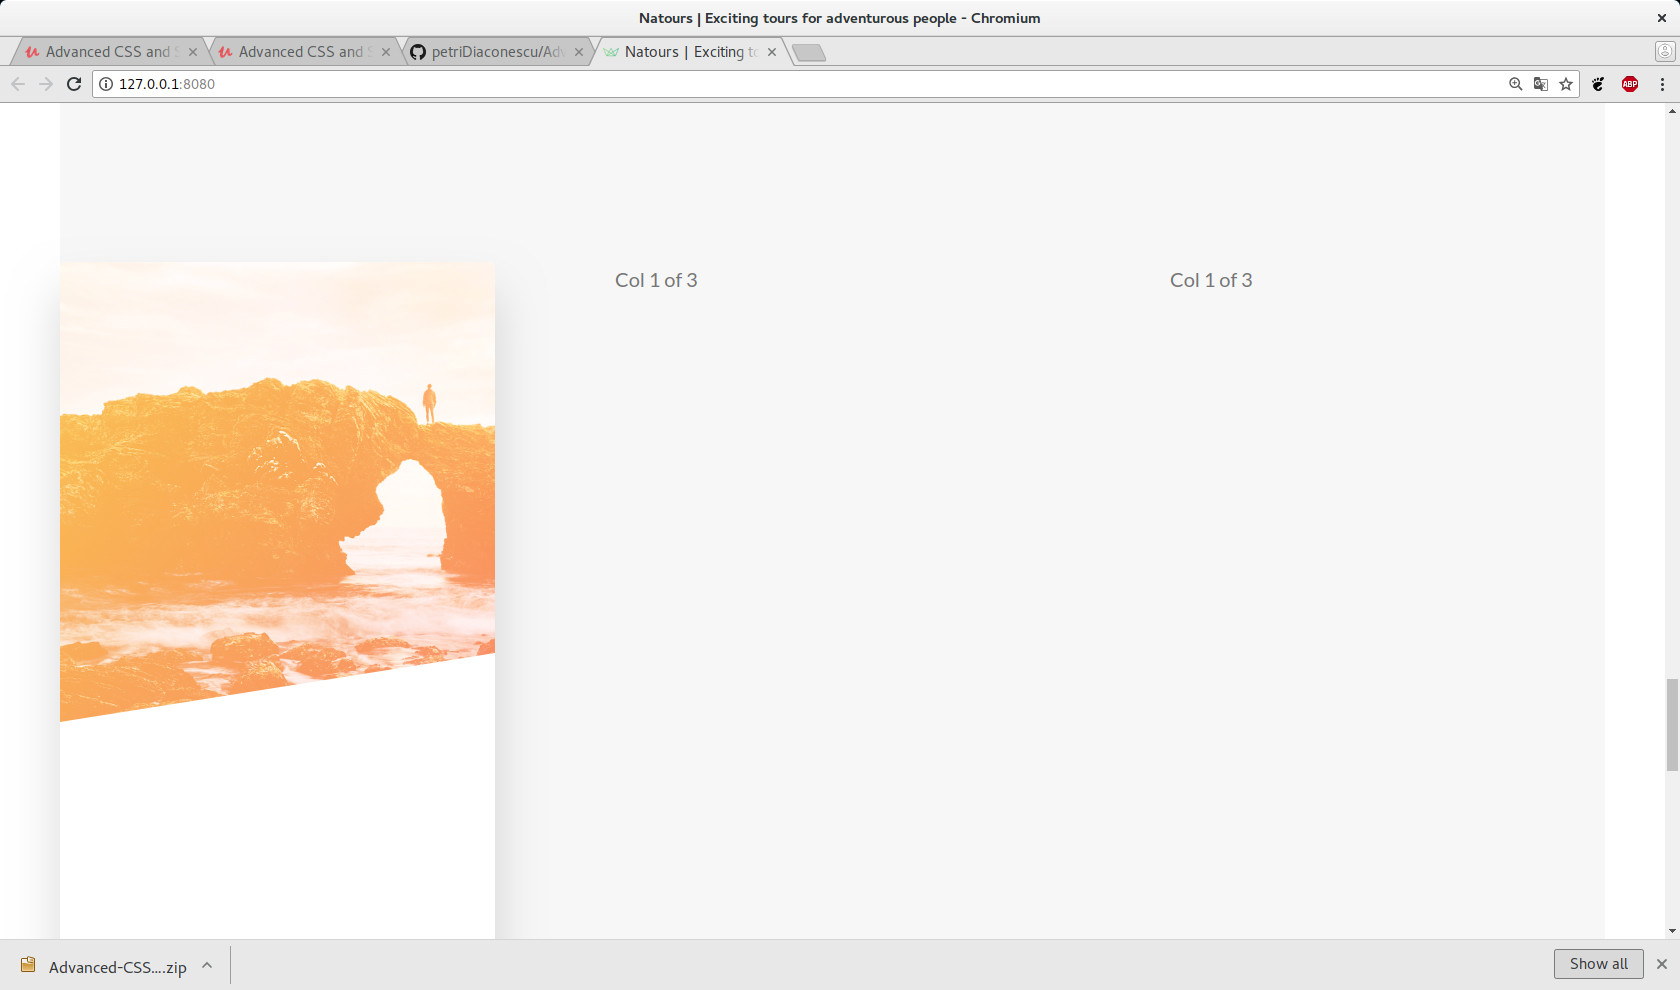
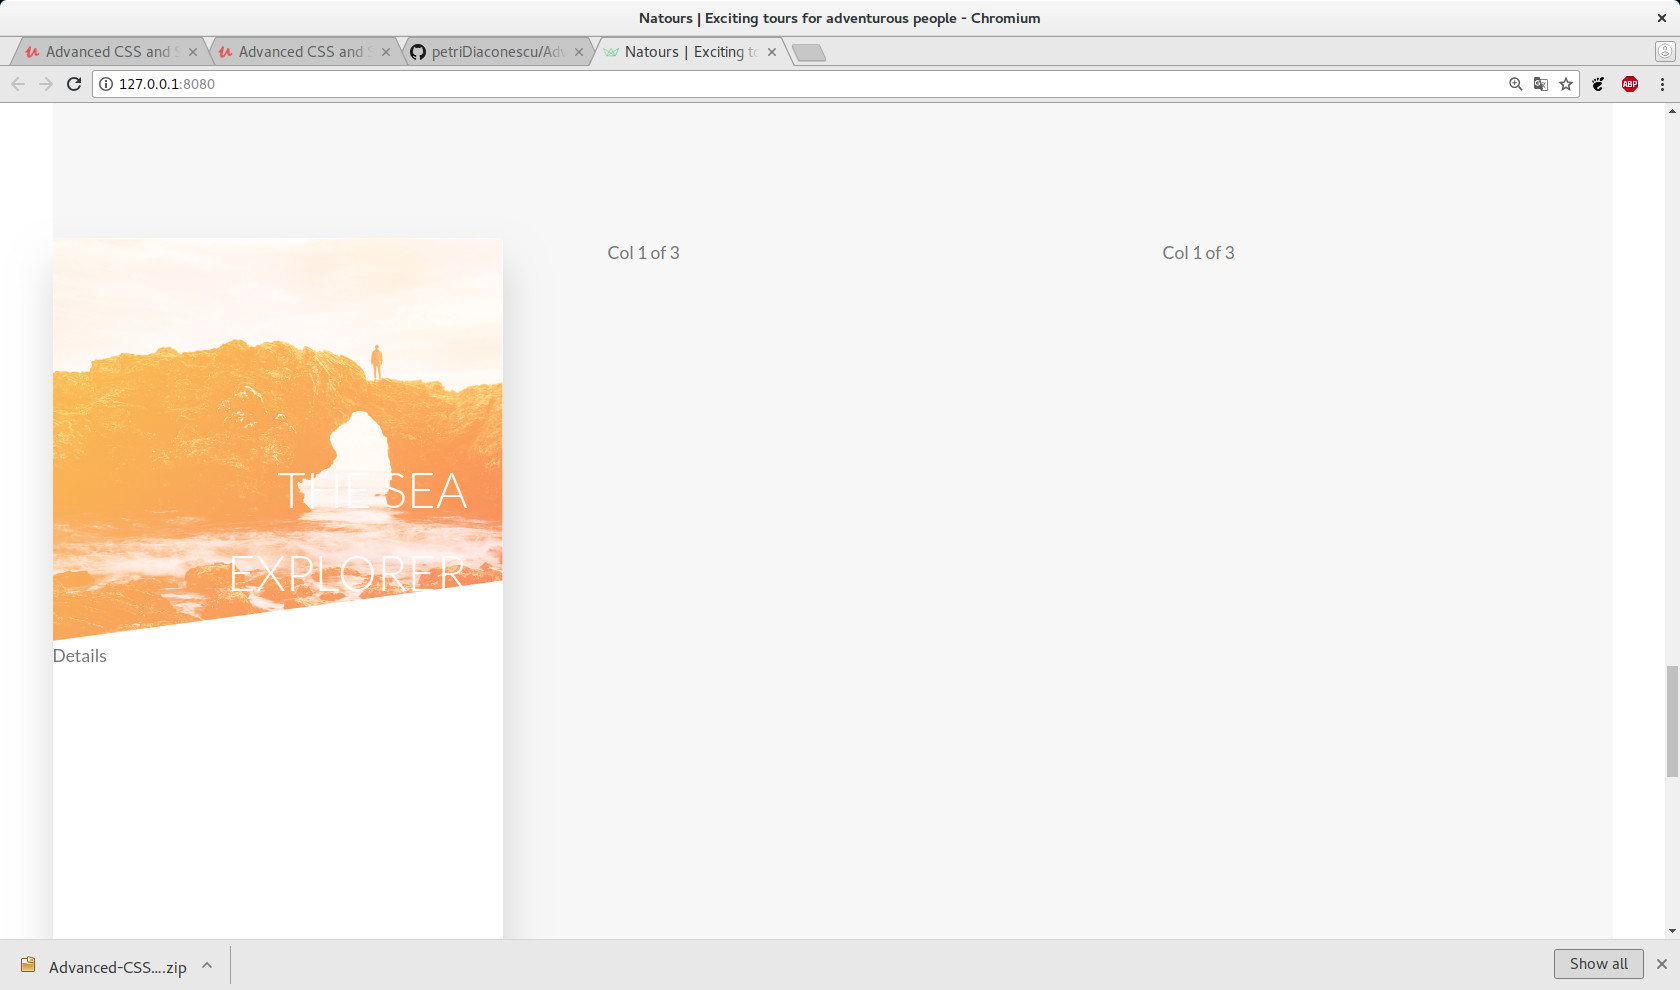
Further style .card-heading part of our card. .card__heading-span is an element by itself so is not nested is sass file under .card__heading styles.

diff --git a/index.html b/index.html
@@ -124,7 +124,10 @@
                   <div class="card__picture card__picture--1">
                     &nbsp;
                   </div>
-                  <h4 class="card__heading">The Sea Explorer</h4>
+                  <h4 class="card__heading">
+                    <span class="card__heading-span card__heading-span--1">The Sea Explorer</span>
+                    
+                  </h4>
                   <div class="card__details">Details</div>
                 </div>
                 <div class="card__side card__side--back card__side--back-1">

diff --git a/sass/components/_card.scss b/sass/components/_card.scss
@@ -72,5 +72,21 @@
     position: absolute;
     top: 12rem;
     right: 2rem;
+    width: 75%; 
+  }
+  
+  
+  &__heading-span {
+     padding: 1rem 1.5rem; 
+      
+      
+    &--1 {
+      background-image: linear-gradient(to right bottom, 
+        rgba($color-secondary-light, .85), 
+        rgba($color-secondary-dark, .85));
+
+
+    }  
+    
   }
 }
